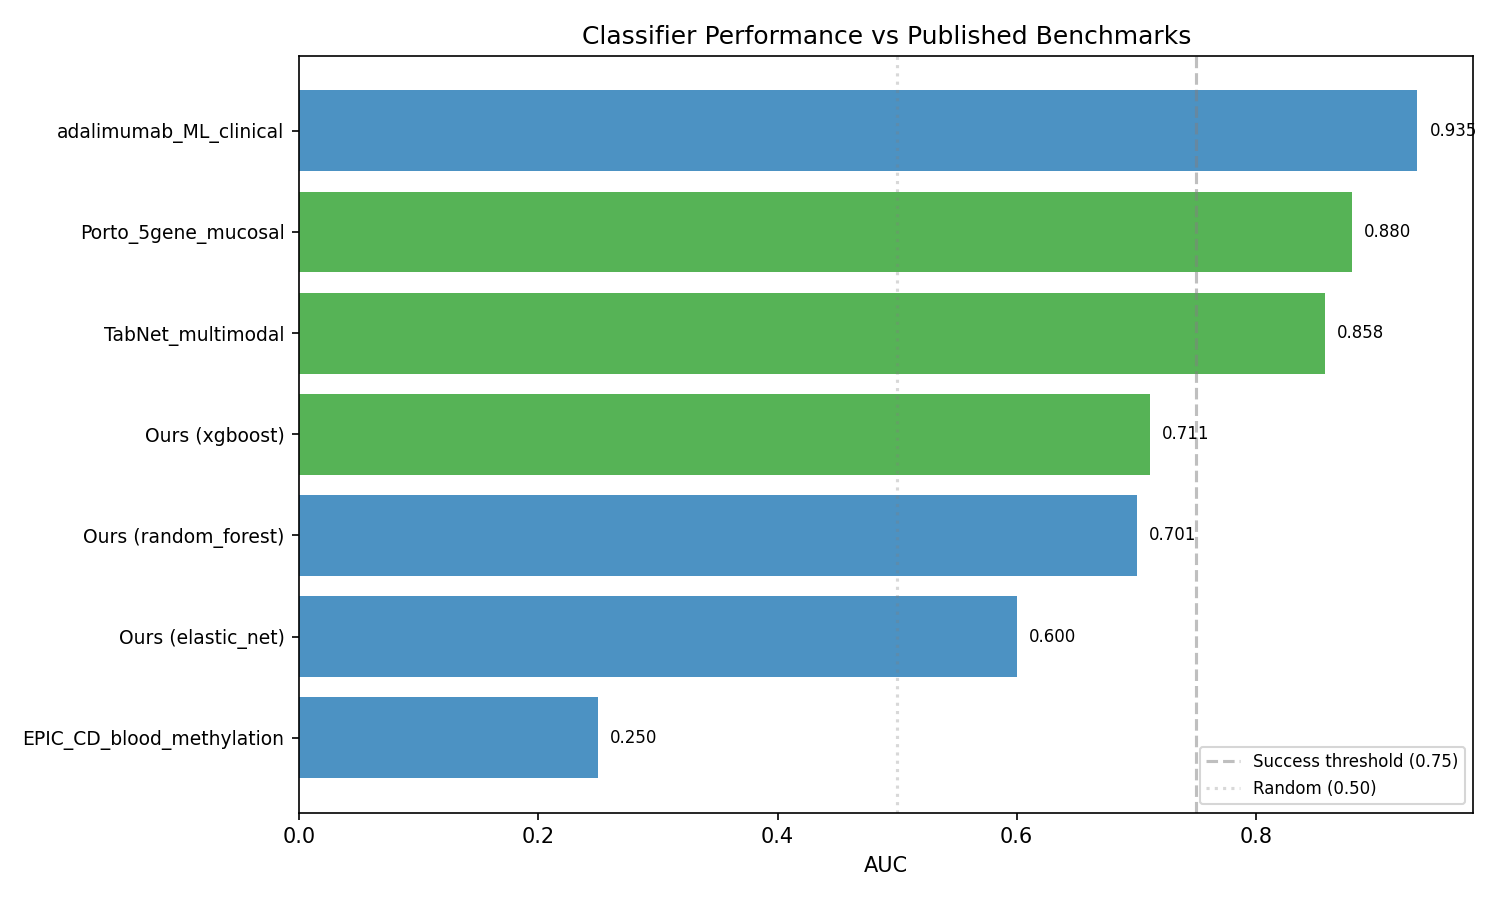
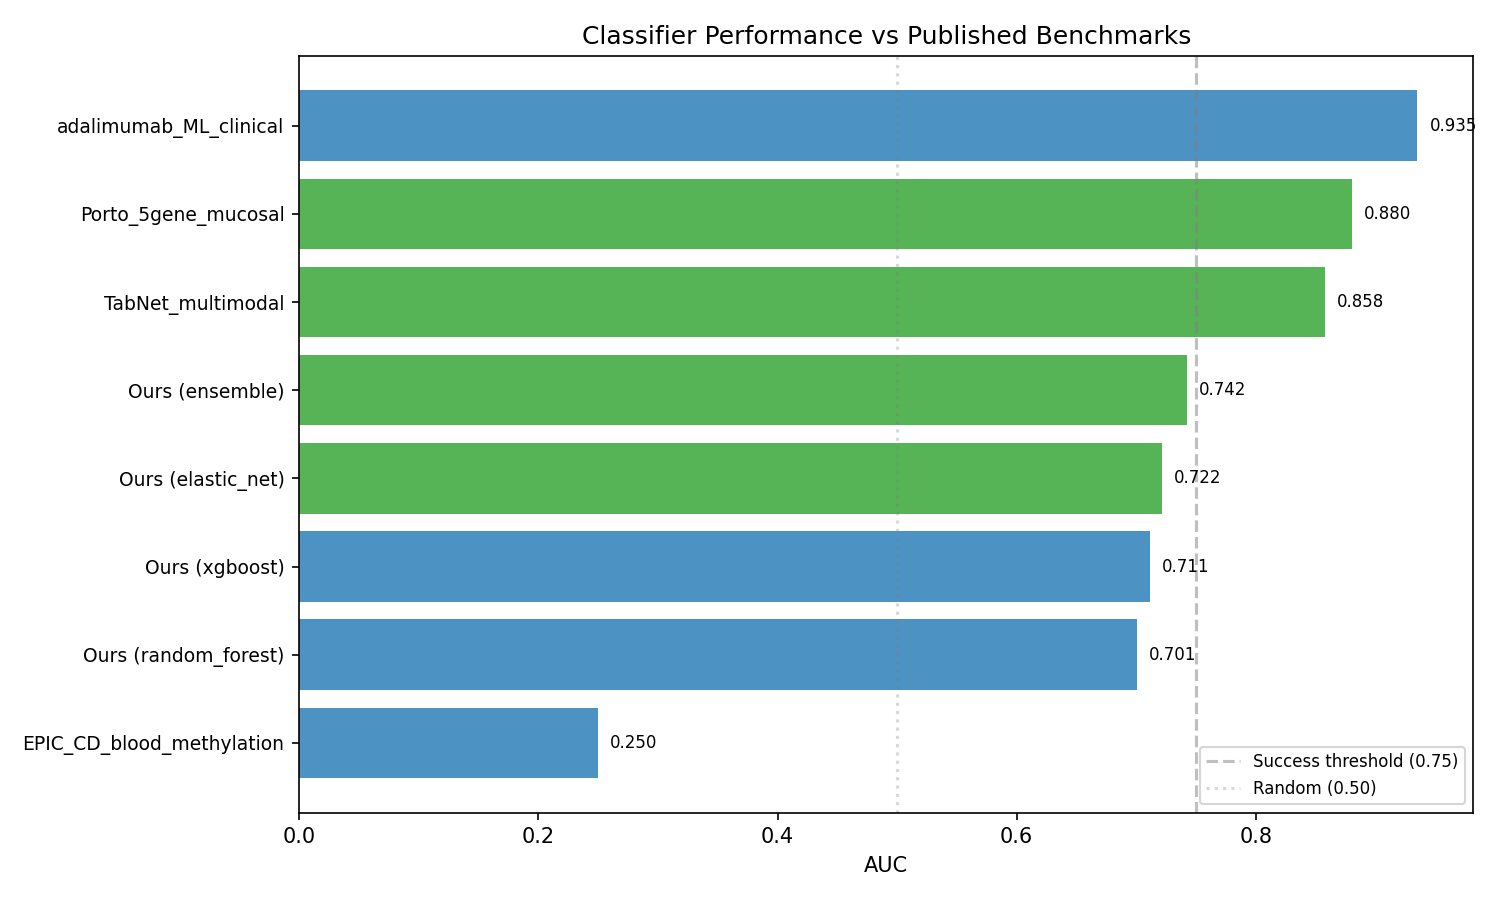
perf(anti-tnf): improve LOSO-CV ensemble to AUC=0.742 (was 0.711)
Key improvements: z-score batch correction for linear models, AUC-weighted
ensemble averaging, balanced class weights for elastic net, Youden threshold
optimization. GSE73661 elastic_net AUC improved from 0.500 to 0.758.

diff --git a/output/crohns/anti-tnf-response-prediction/evaluation/evaluation_report.md b/output/crohns/anti-tnf-response-prediction/evaluation/evaluation_report.md
@@ -3,23 +3,24 @@
 ## Pipeline: Within-Fold LOSO-CV (Leakage-Free)
 
 ## Best Model
-- Model: xgboost
-- Aggregate AUC: 0.711
-- Balanced Accuracy: 0.620
-- Sensitivity: 0.791
-- Specificity: 0.450
+- Model: ensemble
+- Aggregate AUC: 0.742
+- Balanced Accuracy: 0.671
+- Sensitivity: 0.442
+- Specificity: 0.900
 
 ## All Models
-- elastic_net: AUC=0.600, BA=0.492
-- random_forest: AUC=0.701, BA=0.657
-- xgboost: AUC=0.711, BA=0.620
+- elastic_net: AUC=0.722, BA=0.668
+- random_forest: AUC=0.701, BA=0.642
+- xgboost: AUC=0.711, BA=0.611
+- ensemble: AUC=0.742, BA=0.671
 
 ## Per-Study Performance
 
 ### elastic_net
-- GSE16879: AUC=0.668 (n=37, R=20, NR=17)
-- GSE12251: AUC=0.826 (n=23, R=12, NR=11)
-- GSE73661: AUC=0.633 (n=23, R=8, NR=15)
+- GSE16879: AUC=0.632 (n=37, R=20, NR=17)
+- GSE12251: AUC=0.871 (n=23, R=12, NR=11)
+- GSE73661: AUC=0.758 (n=23, R=8, NR=15)
 
 ### random_forest
 - GSE16879: AUC=0.668 (n=37, R=20, NR=17)
@@ -31,14 +32,20 @@
 - GSE12251: AUC=0.833 (n=23, R=12, NR=11)
 - GSE73661: AUC=0.500 (n=23, R=8, NR=15)
 
+### ensemble
+- GSE12251: AUC=0.848 (n=23, R=12, NR=11)
+- GSE16879: AUC=0.665 (n=37, R=20, NR=17)
+- GSE73661: AUC=0.758 (n=23, R=8, NR=15)
+
 ## Benchmark Comparison
 - adalimumab_ML_clinical: AUC=0.935
 - Porto_5gene_mucosal: AUC=0.880
 - TabNet_multimodal: AUC=0.858
+- Ours (ensemble): AUC=0.742 <<<
+- Ours (elastic_net): AUC=0.722 <<<
 - Ours (xgboost): AUC=0.711 <<<
 - Ours (random_forest): AUC=0.701 <<<
-- Ours (elastic_net): AUC=0.600 <<<
 - EPIC_CD_blood_methylation: AUC=0.250
 
 ## Success Criteria
-- LOSO AUC > 0.75: FAIL (0.711)
+- LOSO AUC > 0.75: FAIL (0.742)
